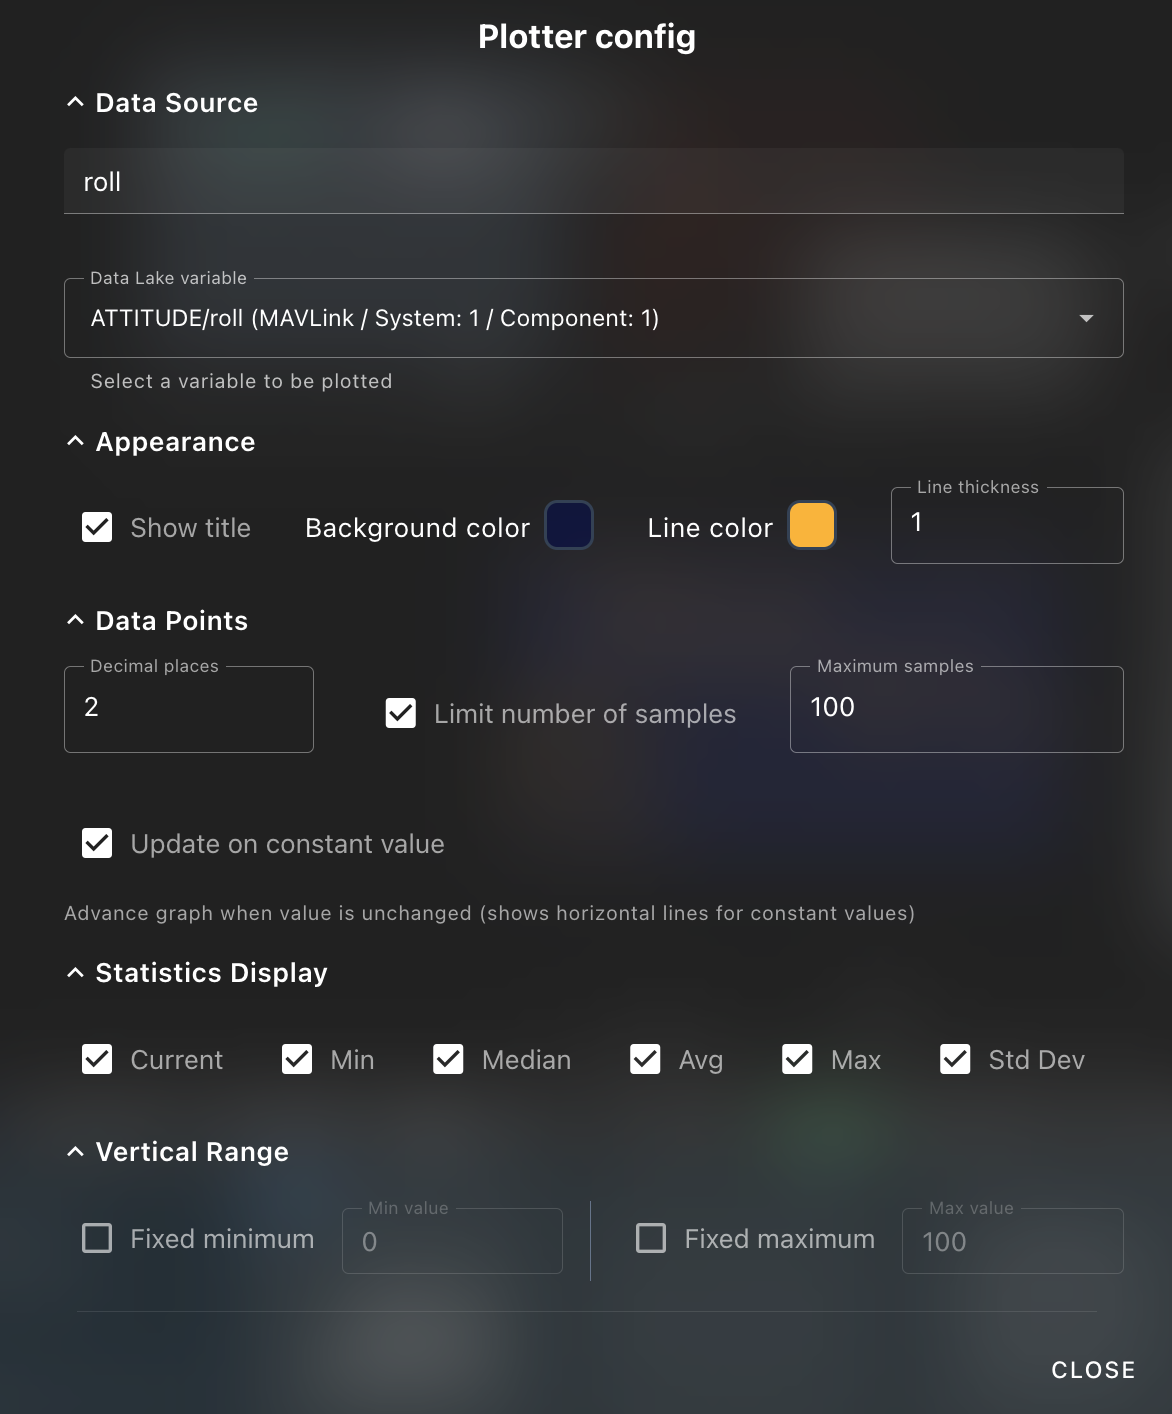
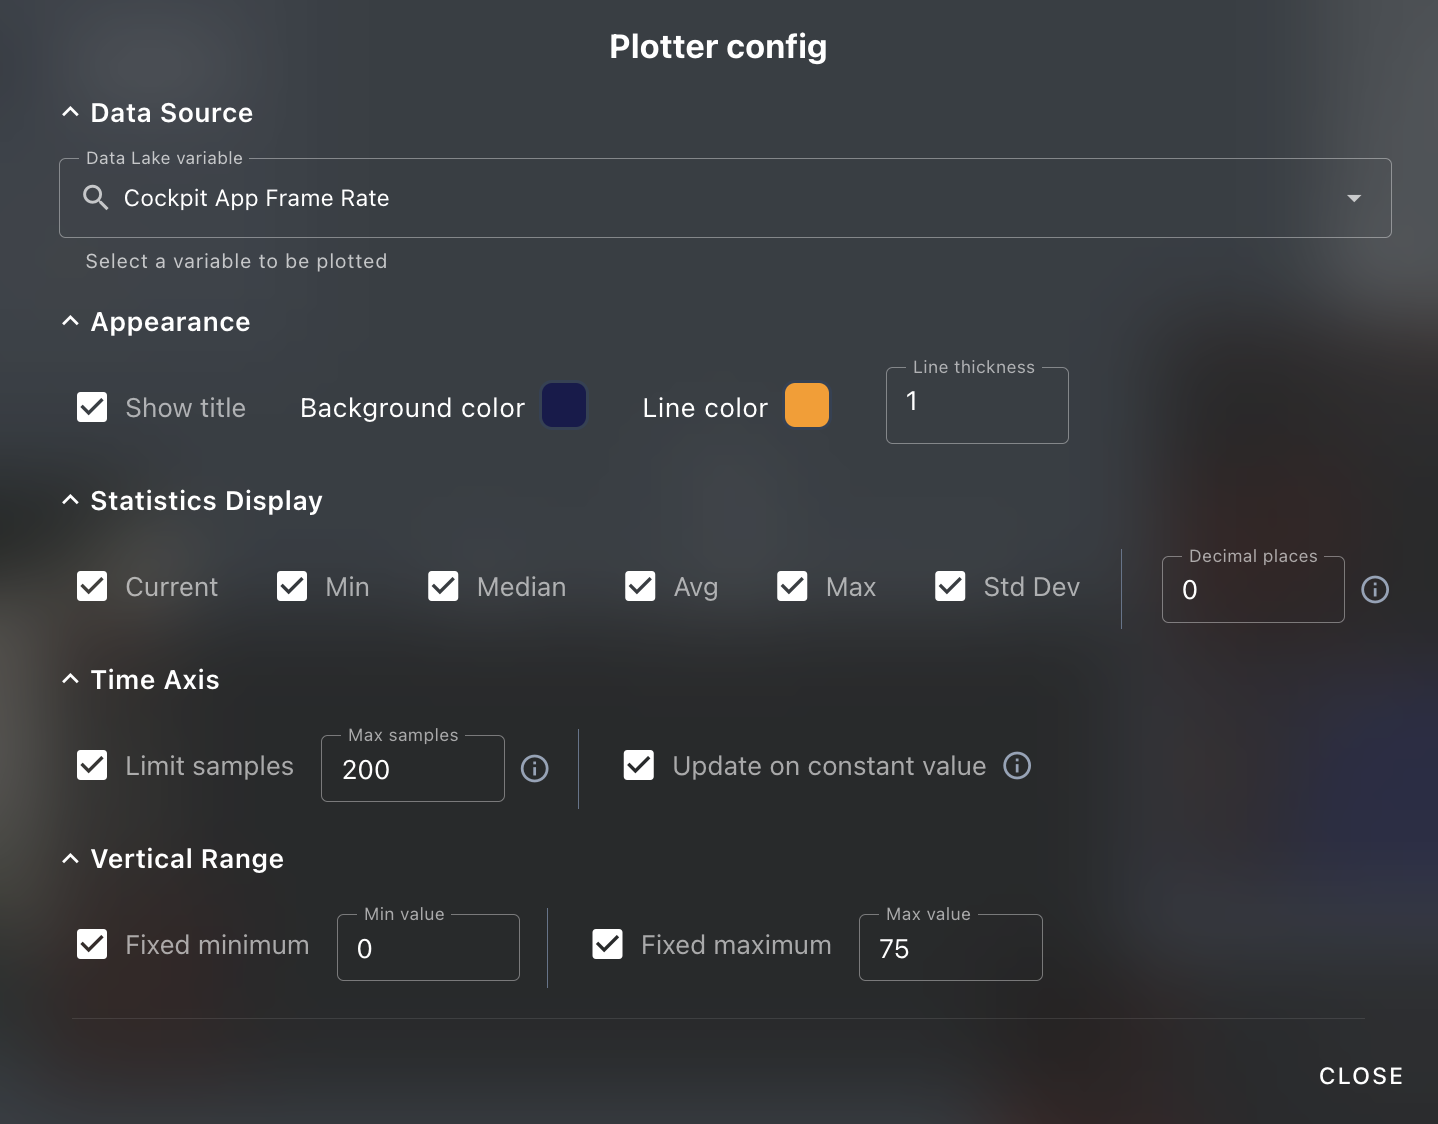
content: usage: advanced: new plotter config UI

diff --git a/content/usage/advanced/index.md b/content/usage/advanced/index.md
@@ -687,7 +687,7 @@ The plotter widget allows plotting data on a graph:
 
 Configuration options are provided for selecting the [data-lake variable](#data-lake) to plot, some common
 statistics from the plotted data (and their decimal resolution), and basic appearance characteristics:
-{{ easy_image(src="plotter-config", width=450, center=true) }}
+{{ easy_image(src="plotter-config", width=550, center=true) }}
 
 It is also possible to control the number of plotted samples and the vertical range of the graph,
 to improve visibility and/or performance.
